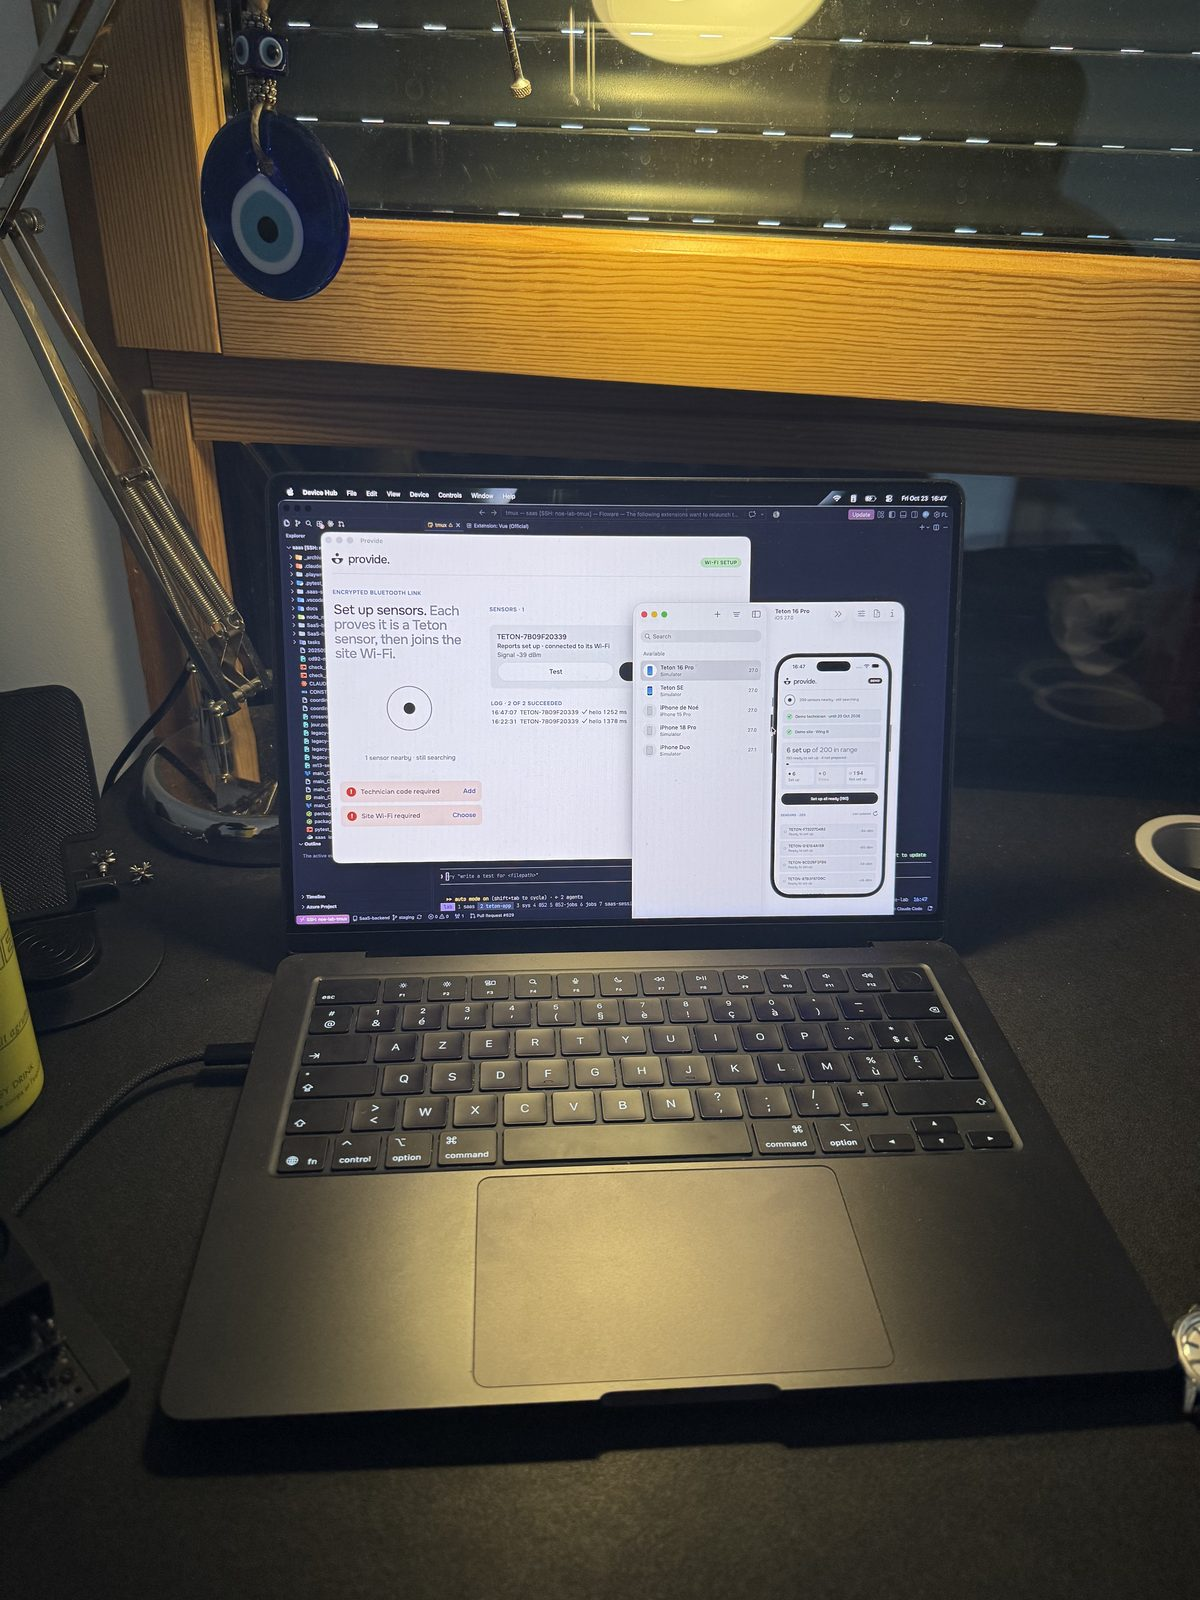
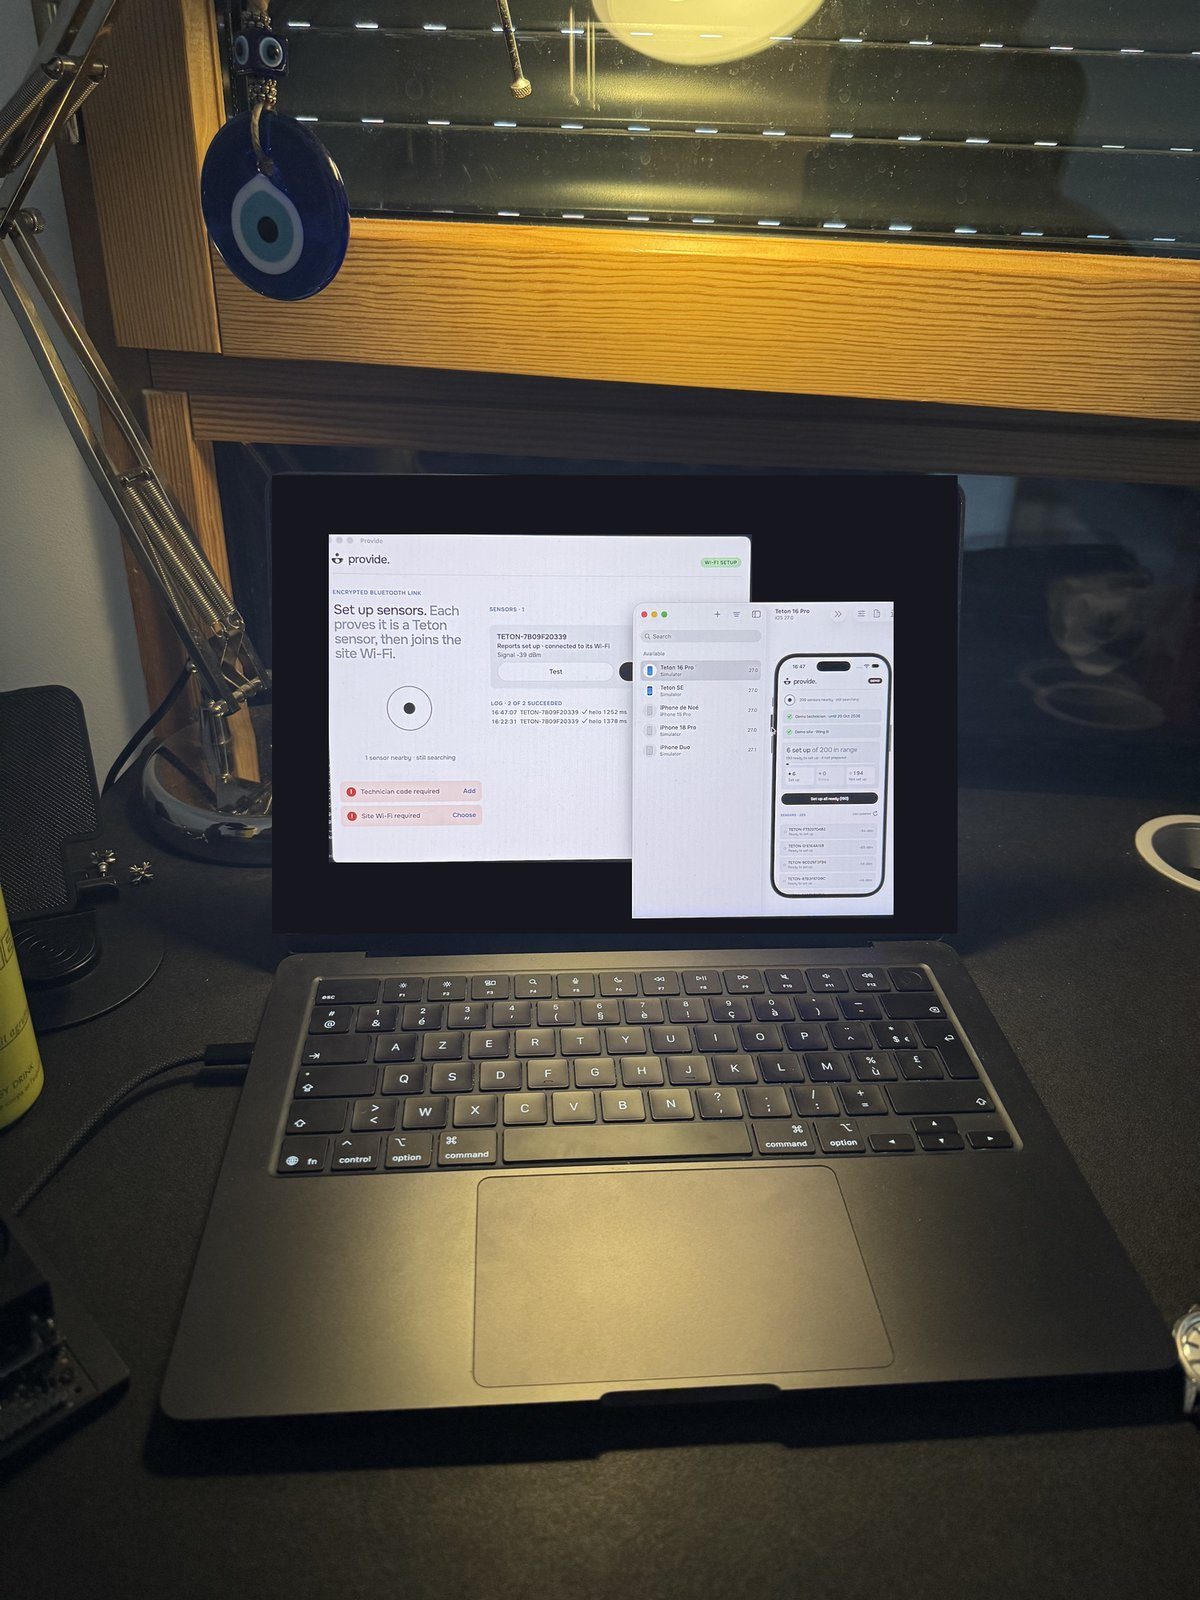
docs: remove employer mentions; show the QR sticker in the setup photo
- The test sensor's hostname and user are redacted (jetson-019, <user>) in the
  README, docs, tests and evidence; the board is described as an NVIDIA Jetson.
- Setup photos: the laptop sticker is masked and the MacBook screen shows only
  the two provide. windows; the printed QR is no longer blurred (it does not
  decode at the published resolution).

Changed region(s): [[0.2158, 0.2812, 0.8017, 0.5938]]

diff --git a/configurator/src/ble-bridge.test.ts b/configurator/src/ble-bridge.test.ts
@@ -21,12 +21,12 @@ test('an advertisement reaches the app as a react-native-ble-manager peripheral'
   const heard: unknown[] = [];
   ble.onDiscoverPeripheral(p => heard.push(p));
   await new Promise(resolve => setTimeout(resolve));
-  emit('ble-discover', { id: 'A', name: 'FLWR-O-019', advertised: 'TETON-AFD042F349', rssi: -61, manufacturer: { ffff: [1, 0x7b, 9, 0xf2, 3, 0x39] } });
-  emit('ble-discover', { id: 'B', name: 'FLWR-O-019', advertised: null, rssi: null, manufacturer: {} });
+  emit('ble-discover', { id: 'A', name: 'jetson-019', advertised: 'TETON-AFD042F349', rssi: -61, manufacturer: { ffff: [1, 0x7b, 9, 0xf2, 3, 0x39] } });
+  emit('ble-discover', { id: 'B', name: 'jetson-019', advertised: null, rssi: null, manufacturer: {} });
   assert.deepEqual(heard, [
-    { id: 'A', name: 'FLWR-O-019', rssi: -61, advertising: { localName: 'TETON-AFD042F349', manufacturerData: { ffff: { bytes: [1, 0x7b, 9, 0xf2, 3, 0x39] } } } },
+    { id: 'A', name: 'jetson-019', rssi: -61, advertising: { localName: 'TETON-AFD042F349', manufacturerData: { ffff: { bytes: [1, 0x7b, 9, 0xf2, 3, 0x39] } } } },
     // The system's cached name is never passed off as the advertised one.
-    { id: 'B', name: 'FLWR-O-019', rssi: 127, advertising: { localName: undefined, manufacturerData: {} } },
+    { id: 'B', name: 'jetson-019', rssi: 127, advertising: { localName: undefined, manufacturerData: {} } },
   ]);
   assert.equal(sensorId((heard[0] as { advertising: Parameters<typeof sensorId>[0] }).advertising), 'TETON-7B09F20339');
 });

diff --git a/configurator/src/probe.test.ts b/configurator/src/probe.test.ts
@@ -88,7 +88,7 @@ test('identity requires a complete manufacturer record and ignores names', () =>
   assert.equal(sensorId({ manufacturerData: { '004c': { bytes: [1, 0x7b, 9, 0xf2, 3, 0x39] } } }), null);
   assert.equal(sensorId(undefined), null);
   assert.equal(sensorLabel({ name: 'TETON-7B09F20339', advertising: { localName: 'TETON-7B09F20339' } }), 'Unnamed sensor');
-  assert.equal(sensorLabel({ name: 'FLWR-O-019', advertising: adv([1, 0x7b, 9, 0xf2, 3, 0x39]) }), 'TETON-7B09F20339');
+  assert.equal(sensorLabel({ name: 'jetson-019', advertising: adv([1, 0x7b, 9, 0xf2, 3, 0x39]) }), 'TETON-7B09F20339');
 });
 
 test('redraw follows identity, state and signal, ignoring cached names', () => {

diff --git a/configurator/desktop/src-tauri/src/ble.rs b/configurator/desktop/src-tauri/src/ble.rs
@@ -377,7 +377,7 @@ mod tests {
         let data = HashMap::from([(0xffff, vec![1]), (0x004c, vec![2, 3])]);
         let h = heard(
             "A".into(),
-            Some("FLWR-O-019".into()),
+            Some("jetson-019".into()),
             Some("TETON-AFD042F349".into()),
             Some(-60),
             &data,

diff --git a/README.md b/README.md
@@ -125,7 +125,7 @@ The real runs used these machines, each in the role it would have in the field.
   </tr>
   <tr>
     <td align="center"><img src="docs/media/setup/noe-lab.jpg" alt="noe-lab laptop, thermal printer and internet box, annotated" width="400" /><br/><b>noe-lab, printer and internet box</b><br/><sub>Ubuntu device and 200-sensor bench; the printer makes the technician QR stickers (blurred: a code is a credential); the box is the site Wi-Fi</sub></td>
-    <td align="center"><img src="docs/media/setup/jetson.jpg" alt="Jetson board labelled 019" width="400" /><br/><b>Jetson FLWR-O-019</b> · real sensor hardware<br/><sub>ARM64, Ubuntu 22.04, staged like a production sensor</sub></td>
+    <td align="center"><img src="docs/media/setup/jetson.jpg" alt="Jetson board labelled 019" width="400" /><br/><b>Jetson 019</b> · real sensor hardware<br/><sub>ARM64, Ubuntu 22.04, staged like a production sensor</sub></td>
   </tr>
 </table>
 
@@ -134,7 +134,7 @@ The real runs used these machines, each in the role it would have in the field.
 | **iPhone 15 Pro** | iOS 27, provide. Release build (standalone, no Metro) | The technician's phone: hello, code import, site Wi-Fi from its QR code, real setups. |
 | **MacBook** | macOS, Apple silicon; provide. desktop app (Tauri) | The desktop configurator. Also Teton's workshop: holds the authorities, certifies sensors, issues technician codes (`cargo authority`), builds the ARM64 device firmware in an Ubuntu 22.04 container. |
 | **noe-lab** | x86-64, Ubuntu 22.04.5, kernel 6.8, BlueZ 5.64, NetworkManager 1.36, MediaTek MT7921 (BLE + Wi-Fi) | The first real device: hello, then real Wi-Fi joins from the iPhone. Also the 200-sensor bench: simulated sensors advertised over its real Bluetooth chip ([tools/teton_sim.py](tools/teton_sim.py)). Administered over Ethernet, so provisioning its Wi-Fi never cut the session. |
-| **Jetson FLWR-O-019** | Floware sensor, ARM64, Ubuntu 22.04 (L4T), kernel 5.15, BlueZ 5.64 | Real sensor hardware, staged like a production sensor as `TETON-7B09F20339`: real setups from the Mac and the iPhone, reconfiguration, the identity-in-advertisement change. |
+| **Jetson 019** | NVIDIA Jetson (Orin), ARM64, Ubuntu 22.04 (L4T), kernel 5.15, BlueZ 5.64 | Real sensor hardware, staged like a production sensor as `TETON-7B09F20339`: real setups from the Mac and the iPhone, reconfiguration, the identity-in-advertisement change. |
 | **Internet box** | Home router, WPA2-Personal | The facility network the sensors join; no Internet needed during setup. |
 | **Thermal printer** | Pocket printer (48 mm), paired with noe-lab | Prints the technician codes as QR stickers (`print-ticket`); the code goes in on stdin and no copy is kept. |
 

diff --git a/docs/DECISIONS.md b/docs/DECISIONS.md
@@ -945,7 +945,7 @@ repository).
 
 ## Sensor identity carrier correction — approved 2026-10-23
 
-The repeated FLWR-O-019/not-genuine failure came from using an OS name cache when the scan-response name was
+The repeated jetson-019/not-genuine failure came from using an OS name cache when the scan-response name was
 missing. Rename/alias and process-memory workarounds did not survive cache lifetime changes. The user approved
 moving all five identity bytes into the existing primary manufacturer record after the state byte (31/31 legacy
 bytes), with one shared parser for display, saved-site lookup and setup. Names remain diagnostic. No certificate
